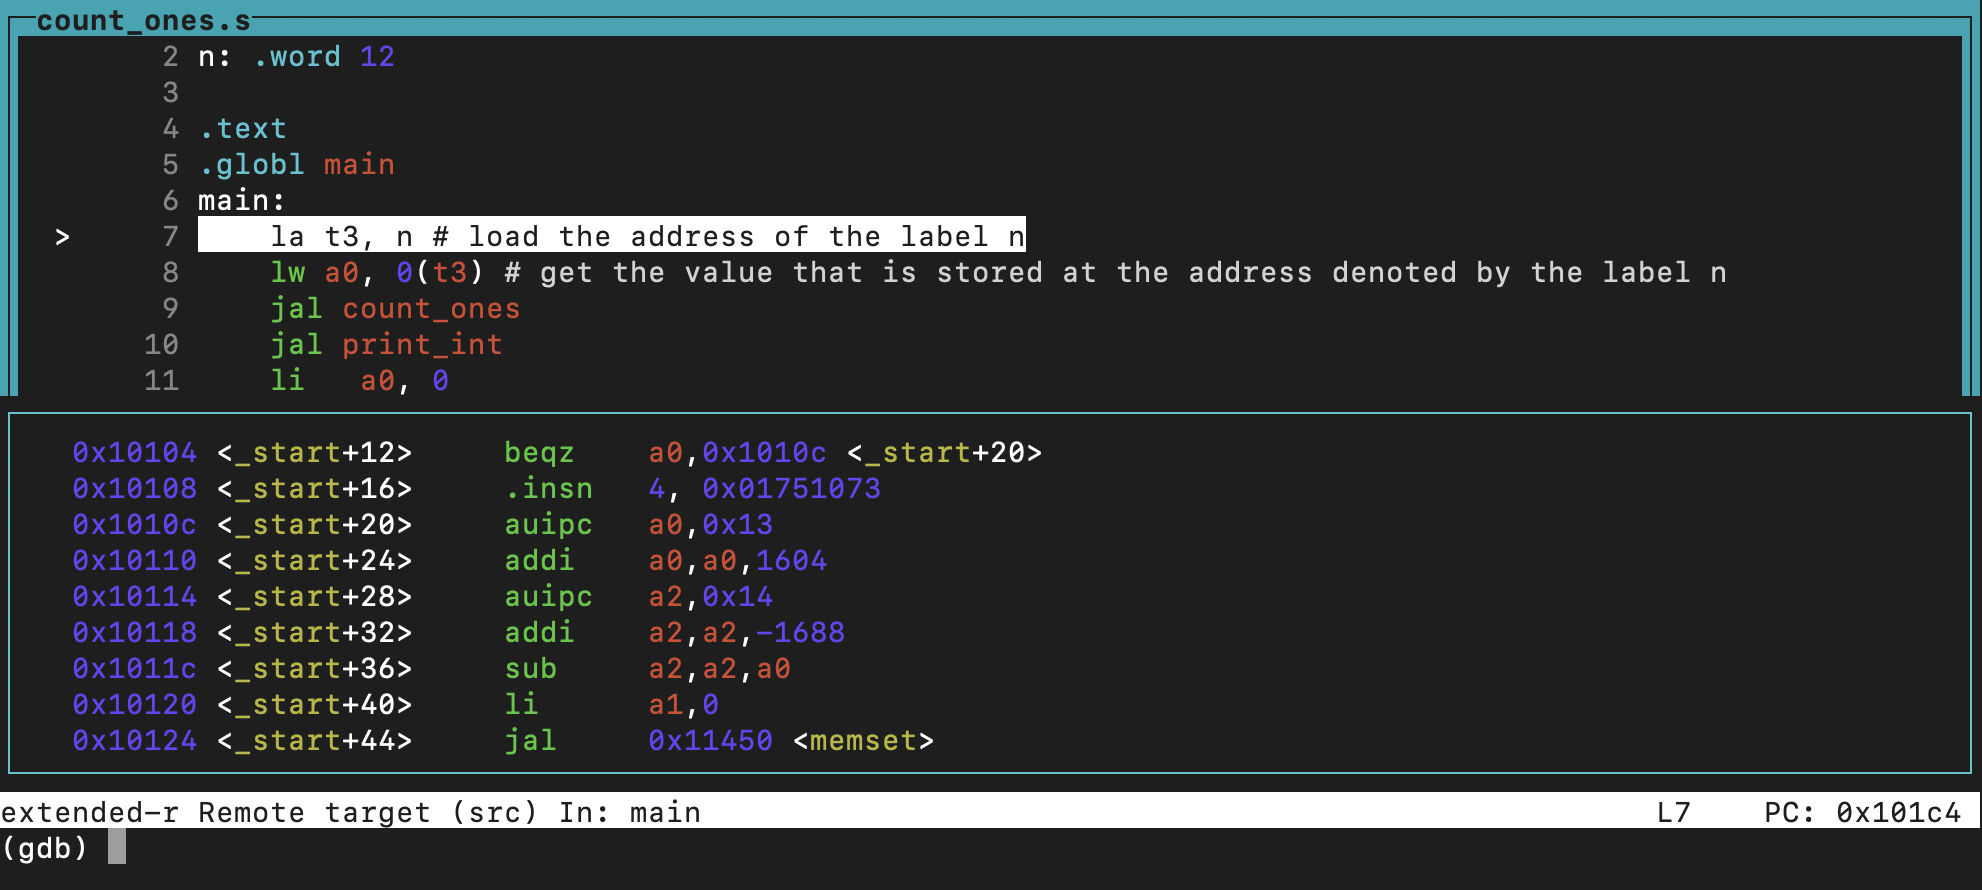
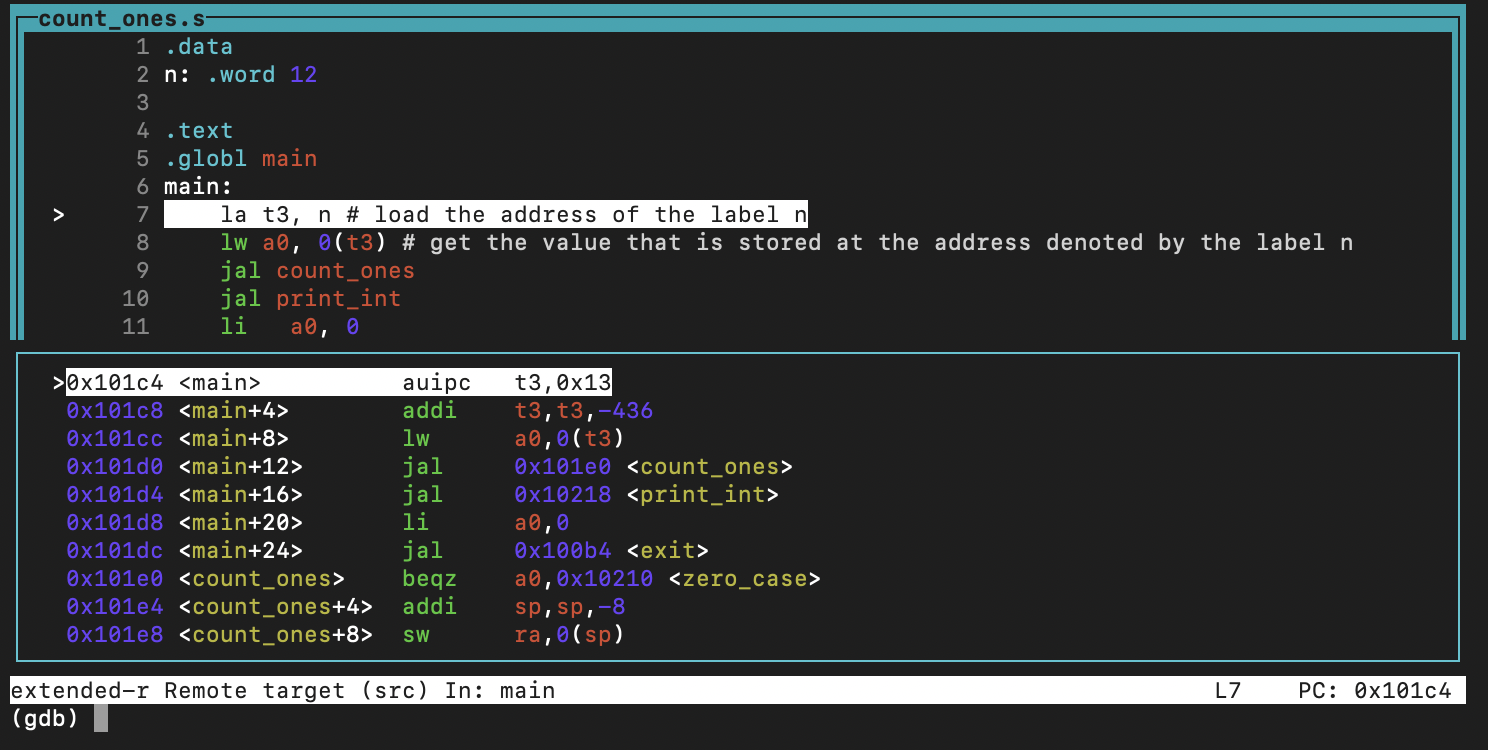
finish p and x and added images

Changed region(s): [[0.0, 0.0, 1.0, 0.9813]]

diff --git a/content/misc/gdb-guide.md b/content/misc/gdb-guide.md
@@ -1,16 +1,13 @@
 ---
 title: "GDB Guide"
 ---
-Here are the key commands from this lab. **You will need these throughout the semester** --- especially for project debugging.
 
 # Using GDB
-
-## Compiling and Opening GDB
 
 ## Views
 The **TUI** transforms GDB from a simple command line into a visual debugger. Use these commands to see your code, assembly, and registers in real-time as you step through a program.
 
-### Example:
+### Example
 Let's walk through example program `count_ones.s ` adapted from [Su24 Exam Question](https://inst.eecs.berkeley.edu/~cs61c/exams/pdfs/su24-final-blank.pdf#page=4). This will count the number of ones in a numbers binary represention you can see full code in the dropdown:
 
 ::::{note} Full `count_ones.s` code
@@ -78,20 +75,29 @@ beq     t3, x0, zero_case
 beqz    t3, 0x10210 <zero_case>
 ```
 
-Running `layout asm` will show only the assembly code (not the original source code) and running `layout regs` will show the assembly and the values of all the regs. As you step through the program the registers will update.
-
 :::{figure} images/gdb-layout-split.png
 :label: gdb-layout-split
 :width: 100%
 :alt: "TODO"
 :::
 
-**TODO: layout split and layout regs images**
+Running `layout asm` will show only the assembly code (not the original source code) and running `layout regs` will show the assembly and the values of all the regs. As you step through the program the registers will update.
 
-<!-- :::{figure} images/gdb-start.png
-:label: gdb-start
+:::{figure} images/gdb-layout-asm.png
+:label: gdb-layout-asm
 :width: 100%
-:alt: "TODO" -->
+:alt: "TODO"
+:::
+
+:::{figure} images/gdb-layout-regs.png
+:label: gdb-layout-regs
+:width: 100%
+:alt: "TODO"
+:::
+
+
+
+### Commands 
 
 | Command | Description |
 |---------|-------------|
@@ -139,7 +145,7 @@ Num     Type           Disp Enb Address            What
 1       breakpoint     keep y   0x000101e0         countone.s:15
 ```
 
-### Condtional Breakpoints:
+### Condtional Breakpoints
 You can also set breakpoints to only trigger when a certain condition is met. This is helpful when trying to debug something in a large loop. 
 
 Command:
@@ -152,7 +158,7 @@ For example:
 ```
 *Note:* `$` is necessary when using register value in the condition
 
-### Example:
+### Example
 In our example we can run 
 ```
 (gdb) b count_ones
@@ -164,19 +170,32 @@ Equivalently:
 ```
 which will create a breakpoint at line 15 (the start of the `count_ones` function). See the `b+` on the left side of the display. Then run the `continue` or `c` command which will continuing running the program until the breakpoint is hit.
 
-TODO: add image
+:::{figure} images/gdb-breakpoint-line15.png
+:label: gdb-breakpoint
+:width: 100%
+:alt: "TODO"
+:::
 
 Next, if we run `layout regs` we will see the value of `a0` is `0xc`. If we run the `continue` command again, the program will run until the next call to `count_ones`. The the value of `a0`, `ra`, and `sp` all change. 
 
-TODO: add image
+:::{figure} images/gdb-breakpoint-regs.png
+:label: gdb-breakpoint-regs
+:width: 100%
+:alt: "TODO"
+:::
 
-Then run this command to break at the final recursive call of `count_ones`. (Be sure to run `d 1` so our original unconditional breakpoint is deleted)
+We can run this command to break at the final recursive call of `count_ones`. (Be sure to run `d 1` so our original unconditional breakpoint is deleted)
 ```
 (gdb) b count_ones if $a0 == 0
 ```
 
-TODO: add image
+:::{figure} images/gdb-breakpoint-conditional.png
+:label: gdb-breakpoint-conditional
+:width: 100%
+:alt: "TODO"
+:::
 
+### Commands 
 | Command | Shortcut | Description |
 |---------|----------|-------------|
 | `break <line>` | `b <line>` | Break at a source line number (e.g., `b 12`) |
@@ -189,34 +208,113 @@ TODO: add image
 
 ## Registers
 
+There are also 2 others ways to view values in registers. Using the `info registers` and `print` commands. 
+
 **`info` command:**
 
-TODO
+```
+(gdb) info registers
+```
+
+Equivalently:
+```
+(gdb) info reg
+```
+
+Will output the values of all the registers. It will output the regsister name, value in hex, and value in decimal. For registers that hold pointer values, the values will stay in hex and will show the offset to the closest preceding label.
+
+:::{figure} images/gdb-info-reg.png
+:label: gdb-info-reg
+:width: 50%
+:alt: "TODO"
+:::
+
+It is sometimes difficult to see the exact register value you need, you can also specify the register(s) you want to view with:
+```
+(gdb) info reg <reg 1> <reg 2> ...
+```
+
+For example:
+```
+(gdb) info reg a0
+a0             0x1	1
+
+(gdb) info reg sp t0 t1
+sp             0x7ffffd90	0x7ffffd90
+t0             0x1149c	70812
+t1             0xf	15
+```
 
 **`print` command:**
+You can also use the `print` or `p` command to print the value of a specific register. Where `f` is the specified print format. 
 
-TODO
+```
+(gdb) print/<f> $<reg>
+```
+
+| Formats |  |
+|---------|----------|
+| `x` | print value as **hexadecimal** |
+| `d` | print value as **signed decimal** |
+| `u` | print value as **unsigned decimal** |
+| `t` | print value as **binary** |
+| `c` | print value as **char** |
+| `a` | print value as an **address**, in hexadecimal and as an offset from the nearest preceding label |
+
+For example:
+```
+(gdb) p/x $a0
+$1 = 0xc
+
+(gdb) p/d $a0
+$2 = 12
+
+(gdb) p/a $ra
+$3 = 0x101d4 <main+16>
+```
+
+*Note: `$n` represents the `n`-th print that is done*
+
+### Commands
 
 | Command | Shortcut | Description |
 |---------|----------|-------------|
 | `info registers` | `info reg` | Show all registers |
 | | `info reg t0` | Show just `t0` |
 | | `info reg t0 t1 t2` | Show multiple specific registers |
-| `print/x $a0` | `p/x $a0` | Print register in hex |
-| `print/d $a0` | `p/d $a0` | Print register in decimal |
-| `print/t $a0` | `p/t $a0` | Print register in binary |
+| `print/<f> $a0` | `p/<f> $a0` | Print register in specified format |
 
-## Examine Memory --- the `x` command
+## Examine Memory 
+
+The examine `x` command is used for viewing memory contents at a given address. You can specify the format and size of the memory output.
 
 The full format is `x/NFU` where **N** = count (default 1), **F** = format, **U** = unit size.
 
-Formats: `x` hex, `d` signed decimal, `i` instruction, `s` string, `t` binary
+**Formats**: `x` hex, `d` signed decimal, `i` instruction, `s` string, `t` binary
 
-Unit sizes: `b` byte, `h` halfword, `w` word
-When you just want one value, you can leave out **N**:
+**Unit sizes**: `b` byte, `h` halfword, `w` word
 
-### Example:
+*Note: When you just want one value, you can leave out **N***
 
+### Examples
+The example below will print 16 words in hex starting at memory address `0x7ffffd90`
+```
+(gdb) x/16xw 0x7ffffd90
+0x7ffffd90: 0x00000001 0x7ffffde0 0x00000000 0x0000000
+0x7ffffda0: 0x00000009 0x000100f8 0x00000005 0x0000004
+0x7ffffdb0: 0x00000004 0x00000020 0x00000003 0x7ffffe0
+0x7ffffdc0: 0x00000006 0x00001000 0x00000017 0x0000000
+```
+Reminder: RISC-V is little endian so note the differences if we print 32 half-word starting at memory address `0x7ffffd90`
+```
+(gdb) x/32xh 0x7ffffd90
+0x7ffffd90: 0x0001 0x0000 0xfde0 0x7fff 0x0000 0x0000 0x0000 0x0000
+0x7ffffda0: 0x0009 0x0000 0x00f8 0x0001 0x0005 0x0000 0x0004 0x0000
+0x7ffffdb0: 0x0004 0x0000 0x0020 0x0000 0x0003 0x0000 0xfe00 0x7fff 
+0x7ffffdc0: 0x0006 0x0000 0x1000 0x0000 0x0017 0x0000 0x0000 0x0000
+```
+
+Below are more examples and their descriptions:
 | Command | Description |
 |---------|-------------|
 | `x/xw $pc` | Machine code of current instruction (one hex word) |
@@ -224,10 +322,6 @@ When you just want one value, you can leave out **N**:
 | `x/xb <addr>` | One byte in hex at an address |
 | `x/4xw $sp` | 4 words in hex at stack pointer |
 | `x/10i $pc` | Disassemble 10 instructions from current PC |
-
-## Backtrace
-
-TODO
 
 ## Miscellaneous
 
@@ -242,31 +336,29 @@ TODO
 - By default, the arrow keys will scroll the assembly window. To switch the focus to the gdb
 prompt so you can use the arrow keys to select previous commands, enter `focus cmd`. To
 return focus to the assembly window, type `focus asm`.
-- To continue execution after pausing at breakpoint, type `c` or `continue`.
 
 # Apendix
 
 ## GDB Commands
-| Command | Shortcut | Description |
-|---------|----------|-------------|
-| `layout split` | | Source + disassembly side by side |
-| `layout regs` | | Registers + assembly |
-| `layout asm` | | Assembly only |
-| `tui disable` | | Exit the TUI views |
-| `step` | `s` | Execute one instruction (steps over runtime helpers) |
-| `next` | `n` | Execute one instruction, stepping over all function calls |
-| `continue` | `c` | Resume execution until next breakpoint |
-| `info registers` | `info reg` | Show all registers |
-| | `info reg t0` | Show just `t0` |
-| | `info reg t0 t1 t2` | Show multiple specific registers |
-| `print/x $a0` | `p/x $a0` | Print register in hex |
-| `print/d $a0` | `p/d $a0` | Print register in decimal |
-| `print/t $a0` | `p/t $a0` | Print register in binary |
-| `x/xw $pc` | | Machine code of current instruction (one hex word) |
-| `x/dw <addr>` | | Read an integer at an address (one signed decimal word) |
-| `x/xb <addr>` | | One byte in hex at an address |
-| `x/4xw $sp` | | 4 words in hex at stack pointer |
-| `x/10i $pc` | | Disassemble 10 instructions from current PC |
-| `disassemble <label>` | | Disassemble a whole function/label |
-| `quit` | | Exit GDB |
-TODO: focus and bt
+| Command | Description |
+|---------|-------------|
+| `layout split` | Source + disassembly side by side |
+| `layout regs` | Registers + assembly |
+| `layout asm` | Assembly only |
+| `tui disable` | Exit the TUI views |
+| `step` or `s` | Execute one instruction (steps over runtime helpers) |
+| `next` or `n` | Execute one instruction, stepping over all function calls |
+| `continue` or `c` | Resume execution until next breakpoint |
+| `info registers` or `info reg` | Show all registers |
+| `info reg t0` | Show just `t0` |
+| `info reg t0 t1 t2` | Show multiple specific registers |
+| `print/<f> $a0` | `p/<f> $a0` | Print register in specified format |
+| `x/xw $pc` | Machine code of current instruction (one hex word) |
+| `x/dw <addr>` | Read an integer at an address (one signed decimal word) |
+| `x/xb <addr>` | One byte in hex at an address |
+| `x/4xw $sp` | 4 words in hex at stack pointer |
+| `x/10i $pc` | Disassemble 10 instructions from current PC |
+| `disassemble <label>` | Disassemble a whole function/label |
+| `focus cmd` | Focus arrow keys and scrolling to the command line |
+| `focus asm` | Focus arrow keys and scrolling to the assembly window |
+| `quit` or `q` | Exit GDB |
